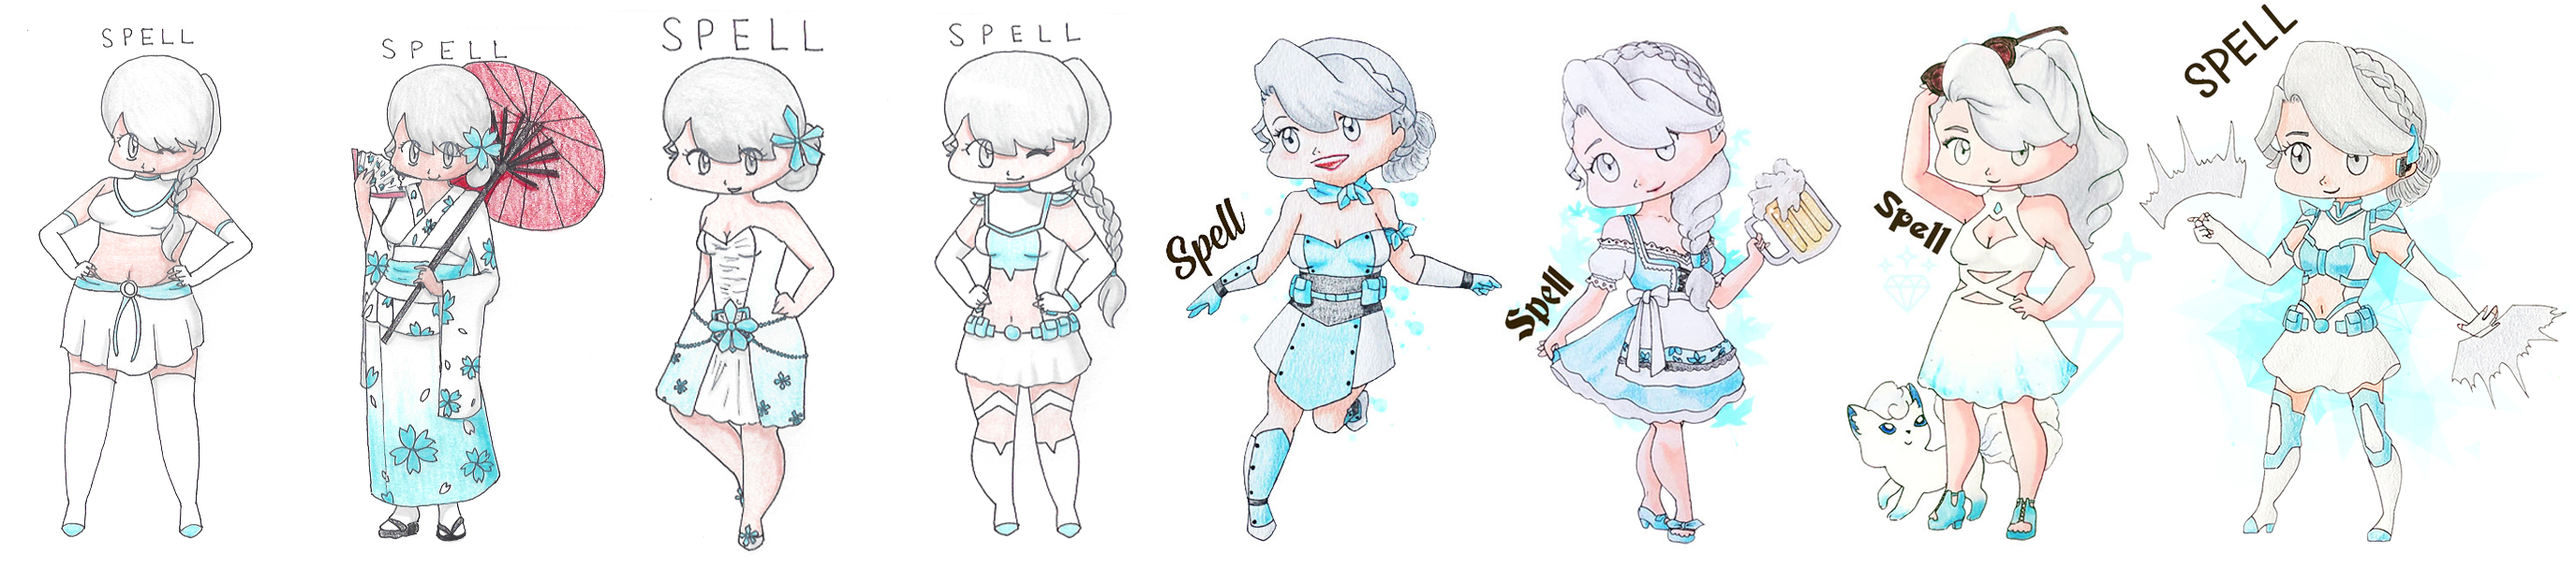
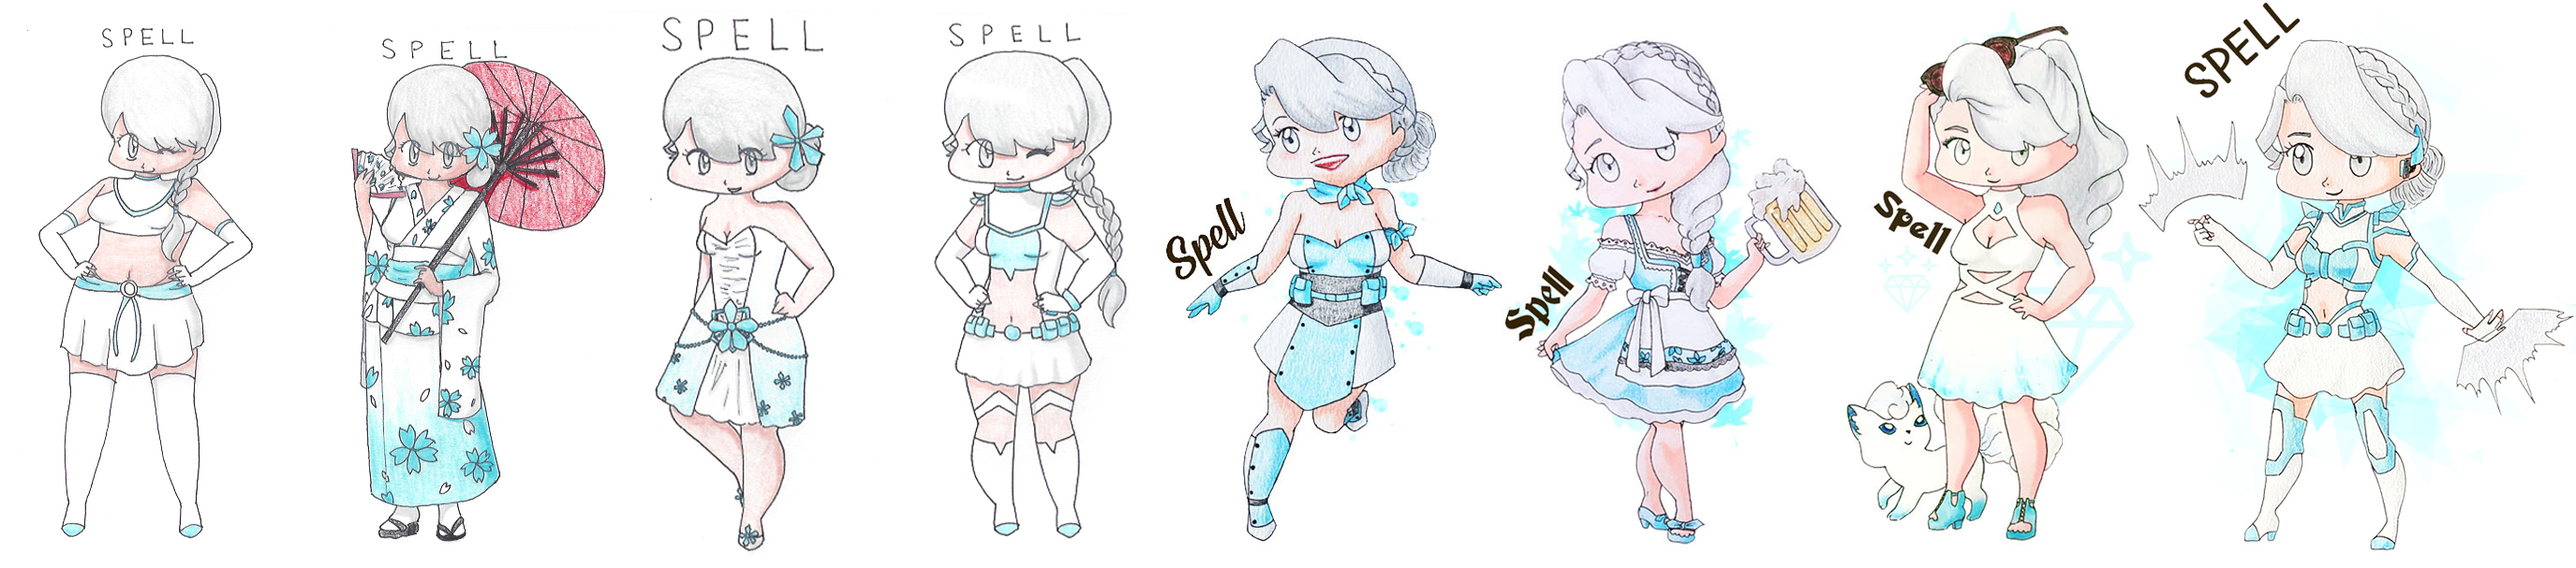
small changes to Kit page and Spell page, edited Redesign to update Spell's hair colour

Changed region(s): [[0.8345, 0.0297, 1.0, 0.9786]]

diff --git a/_posts/IconProjects/IconIntros/2020-05-18-Spell.md b/_posts/IconProjects/IconIntros/2020-05-18-Spell.md
@@ -17,7 +17,7 @@ The most prominent attribute that I take into consideration when designing Spell
 
 ![Spell Redesign Comparison](/assets/artwork/IconProjects/IconIntros/Spell/Redesign_Comparison_Spell.jpg)
 
-Spell's redesign was rather challening at first, because I quite liked her overall design as it was. When I started the process, I led with giving her a space fighter vibe, despite not being from outer space. Of all the Icons, Spell is the most versed in technology so making her outfit more and more like something out of a sci-fi with each iteration was almost inevitable. Using "space fighter" as my guiding principle, I started off by trying to identify elements that I liked and would keep and ones that I dislike and did not make sense to me. 
+Spell's redesign was rather challening at first, because I quite liked her overall design as it was. When I started the process, I led with giving her a space fighter vibe, despite not being from outer space. Of all the Icons, Spell is the most versed in technology so making her outfit more and more like something out of a sci-fi with each iteration was almost inevitable. Using "space fighter" as my guiding principle, I started off by trying to identify elements that I liked and would keep and ones that I dislike and did not make sense to me
 
 Through all of her iterations, she has always had the neck and chestplate, so that was a guaranteed keep. Her gloves and the general shape of her costume around her chest (the blue strip connecting the two sides of her costume around her torso) and the exposed belly button, although maybe not the best for a warrior, were elements that I liked and wanted to keep.  
 

diff --git a/_posts/IconProjects/IconIntros/2020-05-18-Kit.md b/_posts/IconProjects/IconIntros/2020-05-18-Kit.md
@@ -8,12 +8,14 @@ title: Kit
 Kit was created on November 8, 2011, and was originally created as a Percy Jackson fan character. Daughter of the God of the Sun, Apollo, and Eva Artino, a Greek-Canadian musician. Kit is a brilliant musician and natural healer. 
 
 Her design is another driven by her personality and interests. She loves music and is a care-free type, so her designs try to convey that. She wears bright, summery colours and typically loose-fitting clothing that allows her to move around a lot. 
-Unlike many of the other Icons, Kit does not necessarily stick to just shorts or skirts. She plays with both, but she will definitely never be seen in full-length pants!
+Unlike many of the other Icons, Kit does not necessarily stick to just shorts or skirts. She switches between both, but she will definitely never be seen in full-length pants!
 
 
 #### Redesigning Kit
 
 ![Kit Redesign Comparison](/assets/artwork/IconProjects/IconIntros/Kit/Redesign_Comparison_Kit.jpg)
+
+Something that Kit, as a character, really benefitted from in doing these Icon projects is that it became apparent to me that she would 100% be a bit overalls girl! 
 
 
 ### Kit's Costumes Lineup throughout Each Icon Project
